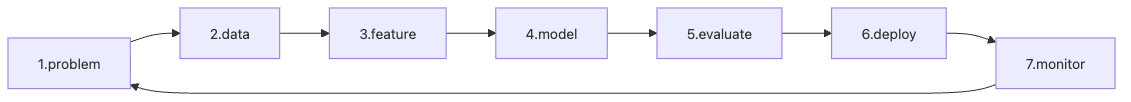
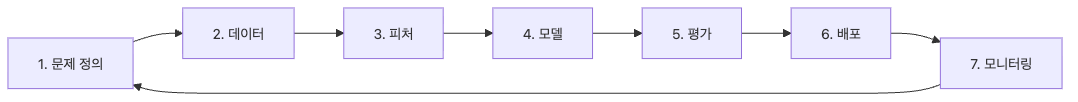
docs(machine-learning-101): localize episode 10 ko visuals (#551)
Ultraworked with [Sisyphus](https://github.com/code-yeongyu/oh-my-openagent)

diff --git a/content/machine-learning-101/ko/10-ml-project-workflow.md b/content/machine-learning-101/ko/10-ml-project-workflow.md
@@ -107,7 +107,7 @@ fresh = Xte + np.random.normal(0, 0.1, Xte.shape)
 print("drifted:", loaded.score(fresh, yte))
 ```
 
-**Expected output:** 저장한 파이프라인은 다시 불러와도 같은 테스트 점수를 내야 하고, 입력에 노이즈를 넣은 `fresh` 점수는 대체로 더 낮게 나옵니다. 이 차이는 모델 파일을 보관하는 것만으로는 충분하지 않고 **입력 분포 변화**까지 지켜봐야 한다는 사실을 보여 줍니다.
+**예상 출력:** 저장한 파이프라인은 다시 불러와도 같은 테스트 점수를 내야 하고, 입력에 노이즈를 넣은 `fresh` 점수는 대체로 더 낮게 나옵니다. 이 차이는 모델 파일을 보관하는 것만으로는 충분하지 않고 **입력 분포 변화**까지 지켜봐야 한다는 사실을 보여 줍니다.
 
 ## 이 코드에서 먼저 봐야 할 점
 